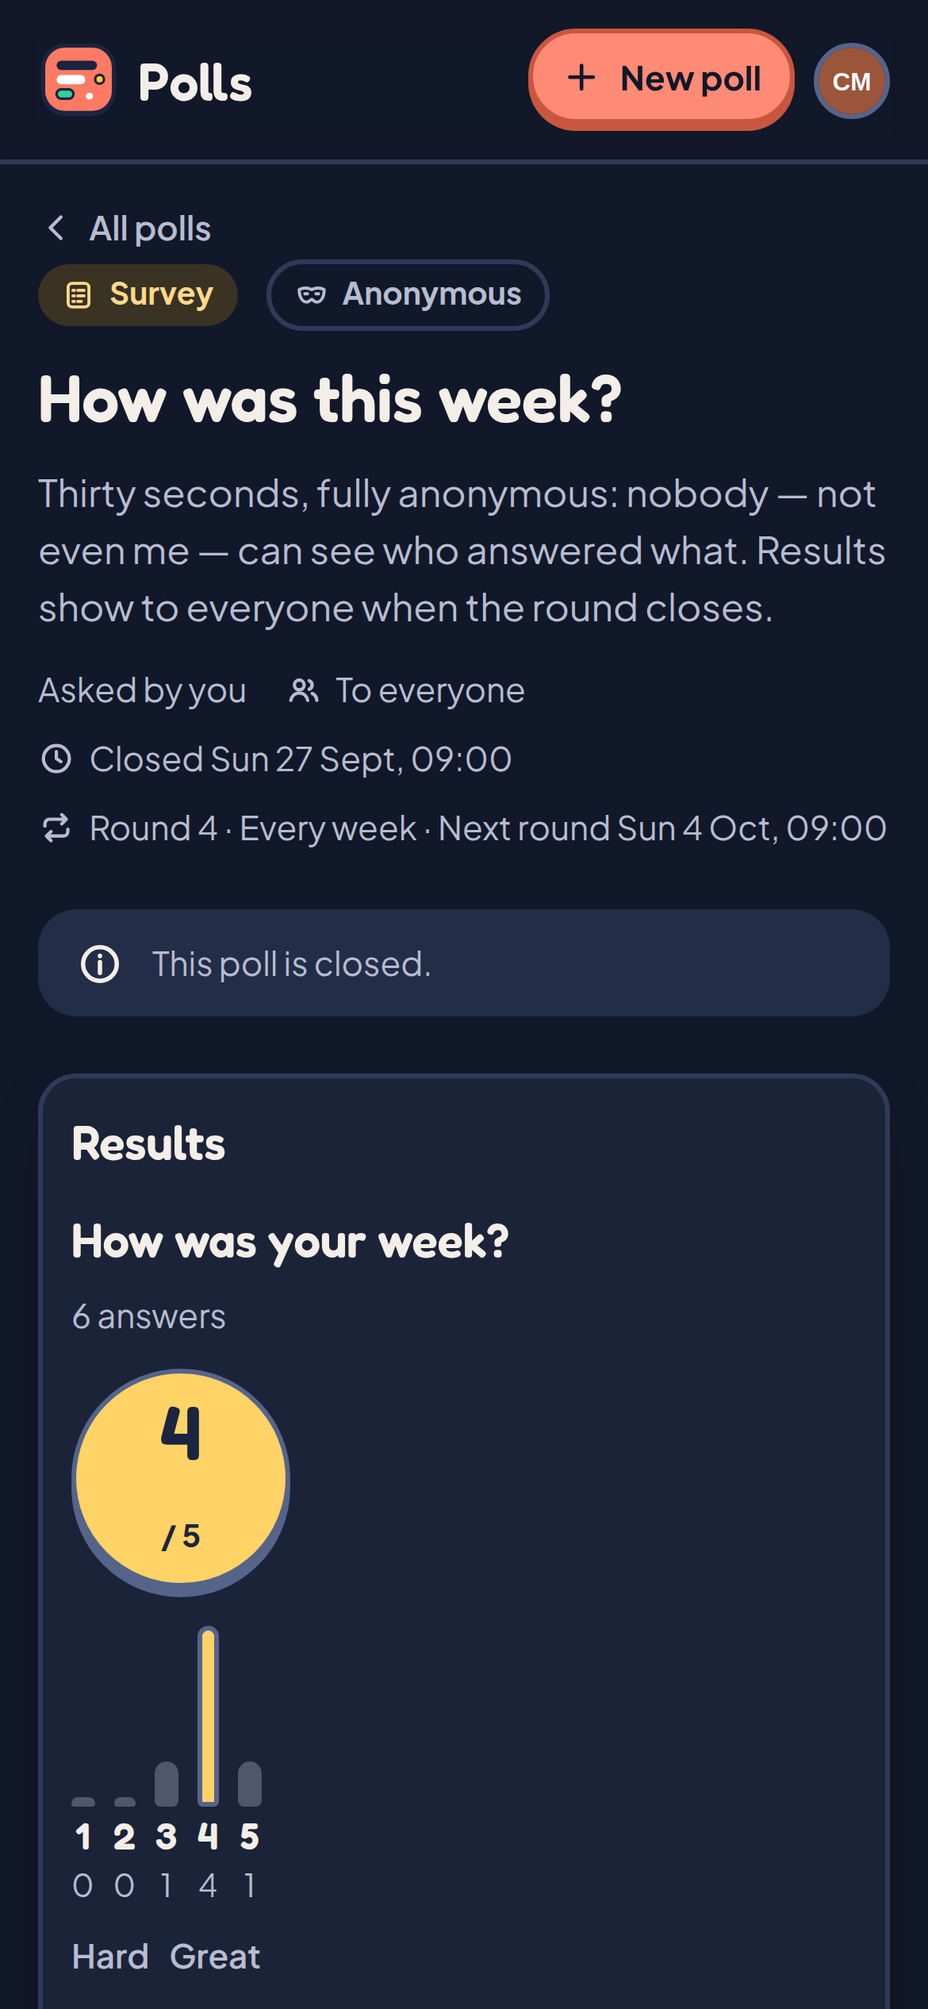
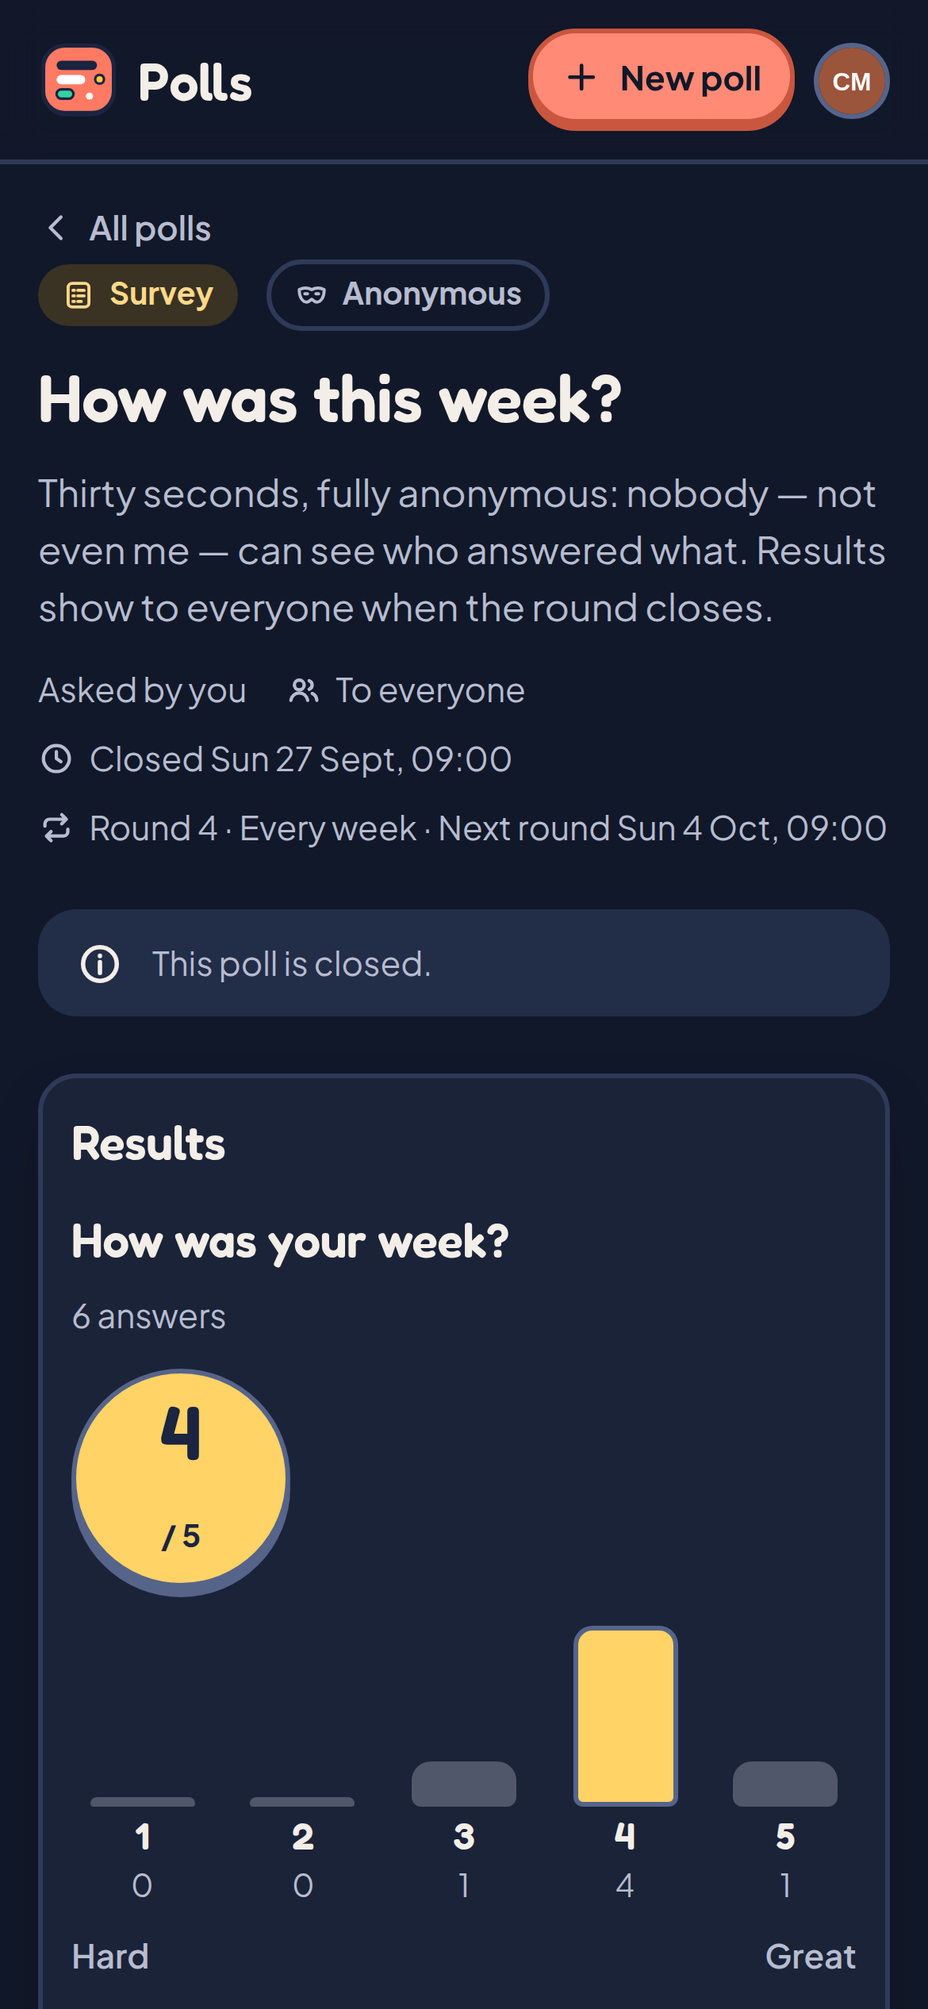
Polls after the critique: anonymous results only once closed, for everyone, never live (database constraint; a closed anonymous poll cannot reopen); members can start polls; recurring pulse surveys with eNPS and trends; people picked by name; comments; places per answer; email reminders; phone grid 
Claude-Session: https://claude.ai/code/session_01JLMdsrCCxLjBpzyUbVXNzX

diff --git a/tools/private/polls/app/globals.css b/tools/private/polls/app/globals.css
@@ -552,3 +552,4 @@ select.field { appearance: none; padding-right: var(--space-6); background-image
   .trend-chart .dot { stroke-width: 3; r: 8px; }
   .trend-chart .dot.current { r: 10px; }
 }
+@media (max-width: 560px) { .scale-result > div:not(.average) { justify-self: stretch; width: 100%; } }

diff --git a/tools/private/polls/README.md b/tools/private/polls/README.md
@@ -61,8 +61,8 @@ them to everyone, organiser included, only once it closes.
   language, sees it on the poll, and can **add it to their calendar** (.ics,
   RFC 5545; all-day or timed, on the Chest's clock).
 - **Reminder**: the day before a poll closes, those who have not answered
-  get one bell item ("Closes tomorrow: …") — only for polls sent more than a
-  day before their close. The organiser is told when their poll closed by
+  get one bell item ("Closes tomorrow: …"), and an email where the Chest
+  sends them — only for polls sent more than a day before their close. The organiser is told when their poll closed by
   its date (for a date poll: "Pick the date and tell everyone").
 - **Drafts**: save a poll as a draft and send it later; a new poll's words
   are also kept in the browser until saved, so a closed tab loses nothing.
@@ -87,19 +87,32 @@ The organiser ticks *Anonymous* when writing the poll. Then:
   carries the same transaction id (`xmin`) and a new place on disk; neither
   row order, ids nor PostgreSQL's own stamps say which answer came last
   (tested in `test/answers.test.ts`).
-- **Results are hidden while fewer than 5 people have answered** — from
-  everyone, including the organiser and the Chest's admins — and free texts
-  are shown in a random order. The organiser never sees *who* has answered
-  an anonymous poll, only how many. The CSV holds counts and texts only.
+- **Results show only once the poll is closed — to everyone at once, the
+  organiser and the Chest's admins included — and only from 5 answers.**
+  While it is open nobody sees a number move: watching the results after
+  each answer ("6 of 7", then "7 of 7" right after a colleague says "done")
+  would tell what that colleague answered. *Live results* cannot be chosen
+  with *Anonymous* (the composer does not offer it; the server and the
+  database refuse it). The CSV is refused while it is open.
+- **A closed anonymous poll is never reopened** — not by its organiser, not
+  by an admin: reopening and closing again would let anyone compare the two
+  results and read the answers given in between. *Close now* asks a second
+  tap ("Close for good") instead of offering *Undo*.
+- Free texts are shown in a random order. The organiser never sees *who*
+  has answered an anonymous poll, only how many; *Remind those who haven't
+  answered* reaches them without naming them. The CSV holds counts and
+  texts only. An anonymous poll takes no comments and no place limits (both
+  name people).
+- **A repeating pulse** compares rounds, never answers: each round is its
+  own anonymous poll, shown once closed and from 5 answers.
 - **An anonymous answer cannot be changed**: nothing says which one is yours.
   The form says so before you send it.
 
 What anonymity here does **not** protect against, honestly:
 
-- **Watching live.** With *Show them as answers come in*, someone who sees
-  the count go from 7 to 8 right after a colleague says "done" can guess
-  that colleague's answer. When anonymity matters, choose *Show them when the
-  poll closes* (the composer switches to it when *Anonymous* is ticked).
+- **Who has answered.** The participation count ("6 of 7 answered") moves
+  as people answer: it says *that* someone answered, never what. Results
+  never move while the poll is open.
 - **Small groups and free text.** Five answers is a floor, not a guarantee:
   a free text can give its author away by what it says; in a team of six,
   a unanimous result says what everyone answered.
@@ -116,8 +129,8 @@ What anonymity here does **not** protect against, honestly:
 
 | Role | Can |
 |---|---|
-| `organiser` | Everything a member can; create polls; see the results of their polls at any time; edit their words and closing time; close, reopen, delete, restore them; pick a date poll's final date; download the answers |
-| `member` | Answer the polls put to them; see results when the organiser allows it |
+| `organiser` | Everything a member can, and always create polls — even when an admin keeps that to organisers |
+| `member` | Answer the polls put to them; see results when the organiser allows it; comment on named polls; **create polls** (unless an admin turned *Everyone can start a poll* off), and for their own polls: see the results at any time (an anonymous poll's only once closed), edit the words and closing time, remind, close, reopen, delete, restore, pick a date poll's final date, stop a pulse's rounds, download the answers |
 
 Admins of the Chest (who arrive as organisers) also manage every poll that is
 not a draft: see its results (an anonymous poll's only once closed, like
@@ -130,17 +143,21 @@ closed poll is seen by those asked, its organiser and admins.
 ## First minute
 
 - **What a new person sees first**: the home page. *To answer* comes first,
-  with each poll's closing time and a big *Answer* button; an organiser then
-  sees *Ask the team* with the three kinds, each one line. With nothing to
+  with each poll's closing time and a big *Answer* button; then *Ask the
+  team* with four tiles — a question, find a date, a short survey, a team
+  pulse — each one line (for everyone, unless an admin keeps it to
+  organisers). With nothing to
   answer: "Nothing to answer. You're all caught up!"
 - **The first thing they do**: tap the bell item or the card, tap an answer,
   *Send my answer*. **Two taps** for a question, one tap per date plus
   *Send* for a date poll. Confetti, then "Thanks! Your answer is in."
 - **An organiser's main job**: *A question* → type the question and two
   answers → *Send to the team*: **three fields and one button**. Everyone is
-  told in their bell.
+  told in their bell. *A team pulse* → *Send to the team*: **one button**,
+  and it comes back every week.
 - **A mistake**: a wrong answer → *Change my answer* (named polls, until the
-  close); closed too early → *Undo* in the toast, or *Reopen*; deleted →
+  close); closed too early → *Undo* in the toast, or *Reopen* (not an
+  anonymous poll: its close is confirmed instead); deleted →
   *Undo*; a date chosen by mistake → *Change the date* (everyone is told
   again, the calendar event replaced). An anonymous answer cannot be changed —
   the form says so before sending.
@@ -150,8 +167,8 @@ closed poll is seen by those asked, its organiser and admins.
 | Route | What |
 |---|---|
 | `/` | Public host: "Polls lives in your Chest", with a language switch |
-| `/chest` | Home: to answer, ask the team (organisers), your polls, answered and still open, closed recently |
-| `/chest/new?kind=choice\|date\|survey` | Composer (organisers) |
+| `/chest` | Home: to answer, ask the team, your polls, answered and still open, closed recently (a pulse once: its latest round); for admins, *Settings* |
+| `/chest/new?kind=choice\|date\|survey` | Composer (whoever may start a poll); `&preset=pulse`: the team pulse |
 | `/chest/polls/[id]` | A poll: answer, results, participation, organise |
 | `/chest/polls/[id]/edit` | A draft to finish, or an open poll's words and closing time |
 | `/chest/polls/[id]/export` | CSV of the answers (those who manage the poll) |
@@ -162,8 +179,11 @@ closed poll is seen by those asked, its organiser and admins.
 ## On a Chest
 
 - `capabilities`: `database`; `members` (names, photos, groups, who is
-  asked); `notifications` (the bell, the tile's number);
-  `receives: ["member.*"]`.
+  asked, people found by name); `notifications` (the bell, the tile's
+  number); `receives: ["member.*"]`. Proposal (studio), in
+  `chest.proposals.json`: `mail: {send: true}` — reminders by email, one
+  per person, sent to `{member}` (Polls never sees an address); without it,
+  reminders are bell items only.
 - **Telling those asked** uses one `notifications.broadcast` per poll
   (Proposal (studio): each member's item in their language, 30 an hour,
   outside the recipients quota). Where the Chest has no broadcast, and for
@@ -173,18 +193,21 @@ closed poll is seen by those asked, its organiser and admins.
   the next pass.
 - **Without schedules**: polls close by their date on the next page view
   (closing is evaluated on every read), and the same pass (closing
-  follow-ups, reminders, tellings, purge) runs at most once a minute when
-  someone opens a page. With the `pass` schedule (every 15 minutes) it runs
-  on time.
+  follow-ups, the next rounds of repeating surveys, reminders, tellings,
+  purge) runs at most once a minute when someone opens a page. With the
+  `pass` schedule (every 15 minutes) it runs on time. A round missed while
+  nobody came is skipped, never opened in a burst.
 - **Groups**: the Chest shows a tool only the groups that *give* it access.
-  If Polls is open to everyone through no group, the composer says "No group
-  gives Polls here, so everyone is asked."
+  If Polls is open to everyone through no group, the composer offers people
+  by name ("No group gives Polls here: add people by name").
 - **Someone loses access**: nothing changes; they are no longer asked or
   counted. **Someone leaves**: their open polls stay open (organiser shown
-  "(former member)"; an admin can close them), their answers stay, their
-  drafts are deleted. **An erasure**: their named answers stay counted but
-  read "Former member"; polls they organised are authored `erased`; their
-  drafts are deleted; the erasure is acknowledged.
+  "(former member)"; an admin can close them), their answers and comments
+  stay, their drafts are deleted, their repeating surveys stop. **An
+  erasure**: their named answers stay counted but read "Former member", so
+  do their comments; polls they organised are authored `erased`; their
+  repeating surveys stop; their id leaves the lists of people picked by
+  name; their drafts are deleted; the erasure is acknowledged.
 - No WebSocket: an open poll re-reads itself every 20 s, the home page every
   30 s, while visible.
 
@@ -198,12 +221,25 @@ closed poll is seen by those asked, its organiser and admins.
   every 15 minutes. Without it, Polls still works (see above).
 - `chest.timeZone()` / `today()` — **Proposal (studio)**: dates and closing
   times on the Chest's clock.
-- Wanted, not built: **`members.groups.list({ all: true })`** — all of the
-  Chest's groups (not only those that give the tool) so a tool open to
-  everyone can still ask "Sales only"; a **broadcast that excludes members**
-  (`except: [ids]`) so a reminder or a poll's first telling need not page
-  through members; **email** for reminders, since the bell reaches only
-  those who open their Chest.
+- `mail` — **Proposal (studio)**: reminders by email (`send` to `{member}`).
+- Wanted, not built:
+  - **A public part for guests without a Chest account** — Doodle's main
+    outside use (a client meeting, a candidate's interview slot). Polls is
+    a private-only tool; it would need `public: true` and a way for a
+    visitor to answer one date poll through an unguessable link, with a
+    name field and no account, rate-limited per link and per address. The
+    public-part and `visitors` proposals give the pieces; turning a private
+    tool into a public-and-private one (a second host, its own CSP, a
+    public page per poll) is a structure change for the studio to decide.
+  - **`members.groups.list({ all: true })`** — all of the Chest's groups
+    (not only those that give the tool) so a tool open to everyone can
+    still ask "Sales only"; until then, people picked by name.
+  - A **broadcast to members by id** (`to: { members: [ids] }`) and one
+    that **excludes members** (`except: [ids]`), so a poll put to people by
+    name, a reminder or a poll's first telling need not page through
+    members.
+  - **Push to a phone**: the bell reaches only those who open their Chest;
+    email helps; a push would be Officevibe's Slack nudge.
 
 ## Develop
 
@@ -221,10 +257,17 @@ In the studio: `node lab/chest-dev/dev.mjs tools/private/polls --prod --reset
 
 ## What it does not do (yet)
 
-Comments on a poll; participants adding options; limits per option (a
-sign-up sheet); recurring pulse surveys with a trend chart (needs
-schedules per poll); ranking questions; guests outside the Chest (no public
-voting link); email or push reminders; import from Doodle (Doodle exports
-only an Excel file, on paid plans — nothing worth importing for short-lived
-polls); calendar conflict hints on dates; time zones other than the Chest's
-for date options.
+- **Guests outside the Chest**: no public answering link (see *Needs from
+  the SDK*). A meeting with a client or a candidate still needs Doodle or an
+  email thread.
+- **Pulse breakdowns per team or manager** (Officevibe's heat map): only the
+  whole audience's results. A per-group breakdown with its own five-answer
+  floor is possible, not built.
+- **Importing past Officevibe or Doodle data**: none. A pulse's history
+  starts with its first round in Polls; the old one stays in Officevibe's
+  export. (Doodle exports only an Excel file, on paid plans — nothing worth
+  importing for short-lived polls.)
+- **An export of every poll at once** for an admin: one CSV per poll.
+- Participants adding options; ranking questions; a date picker showing
+  more than one month; calendar conflict hints on dates; time zones other
+  than the Chest's for date options; push reminders.

diff --git a/tools/private/polls/AGENTS.md b/tools/private/polls/AGENTS.md
@@ -8,26 +8,29 @@ must not break.
 | Path | What it is |
 |---|---|
 | `chest.json` | Manifest: roles `organiser`, `member`; `database`, `members`, `notifications`; `receives` |
-| `chest.proposals.json` | The `pass` schedule (every 15 minutes) — a Proposal of the studio's SDK |
-| `migrations/0001_polls.sql` | Schema: polls, questions, options, participants, answers (named), tallies and texts (anonymous), tellings, chest_events. Never edit a shipped file; add `0002_…` |
-| `lib/access.ts` | **Who may do what**: roles, `asked`, `sees`, `manages`, `edits`, `resultsState` (live / after close / the five-answer threshold) |
+| `chest.proposals.json` | The `pass` schedule (every 15 minutes) and `mail: {send}` (email reminders) — Proposals of the studio's SDK |
+| `migrations/0001_polls.sql` | Schema: polls, questions, options, participants, answers (named), tallies and texts (anonymous), tellings, chest_events |
+| `migrations/0002_team_polls.sql` | Settings (who starts polls), people picked by name, sign-up places, edits after answers, reminders on demand, series (repeating pulses), eNPS, comments; anonymous ⇒ results after the close (a constraint). Never edit a shipped file; add `0003_…` |
+| `lib/access.ts` | **Who may do what**: roles and the admin's policy (`can`, `settles`), `asked` (everyone, groups, people), `sees`, `manages`, `edits`, `resultsState` (live / after close; anonymous: closed and five answers, for everyone) |
 | `lib/model.ts` | Bounds, reading a poll (`readPoll`) and an answer (`readAnswer`), `checkOpening` — pure |
 | `lib/polls.ts` | Services: create, drafts, edit, send, close, reopen, delete, restore, purge, final date, home, view, export, tile counts |
 | `lib/answers.ts` | Answering; the anonymous rewrite (see README, "Anonymous polls") |
-| `lib/results.ts` | Counts → results (bars, grid, best date, averages) — pure |
-| `lib/tell.ts` | The bell and the tile: ask, remind, final date (broadcast, or pages resumable past the quota), settle after closing, `pass`/`catchUp` |
-| `lib/audience.ts` | Who a poll asks (`members.list`, groups) |
+| `lib/results.ts` | Counts → results (bars, grid, best date, averages, eNPS) — pure |
+| `lib/series.ts` | Repeating pulses: `startSeries`, `openRounds` (on the pass), `repeatSeries` (stop / again), `trend` (a number per round) |
+| `lib/comments.ts` | Comments on named polls: list, add, remove, restore |
+| `lib/tell.ts` | The bell, the tile and email reminders: ask, remind (day before), nudge (the organiser's reminder), final date (broadcast, or pages resumable past the quota), comments, settle after closing, `pass`/`catchUp` |
+| `lib/audience.ts` | Who a poll asks (`members.list`, groups, people by name), finding people by name |
 | `lib/ics.ts`, `lib/csv.ts` | .ics (RFC 5545) and CSV writers — pure, tested |
 | `lib/time.ts`, `lib/zone.ts`, `lib/dates.ts` | Days and times on the Chest's clock, in the reader's words |
 | `lib/composer-value.ts` | The composer's data shape (browser-safe) |
 | `lib/lifecycle.ts` | Leaving and erasure |
 | `lib/i18n/` | Every word: `en.ts` (source), `fr.ts`; `format.ts` for the browser |
 | `app/chest/actions.ts` | Server actions: thin; each re-reads the member; answer `Result` codes |
-| `app/chest/page.tsx` | Home (server) |
+| `app/chest/page.tsx` | Home (server); `policy-switch.tsx` the admin's setting |
 | `app/chest/composer.tsx` | The composer (client): kinds, answers, calendar, survey questions, settings |
-| `app/chest/polls/[id]/` | The poll page (server), `answer-area.tsx` and `manage.tsx` (client), `results.tsx` (server), `export/`, `calendar/` routes |
+| `app/chest/polls/[id]/` | The poll page (server), `answer-area.tsx`, `manage.tsx`, `comments.tsx` (client), `results.tsx`, `trend.tsx` (server), `export/`, `calendar/` routes |
 | `app/chest-events/route.ts`, `app/chest-jobs/[name]/route.ts` | The Chest's signed calls |
-| `seed/sample.sql` | Five sample polls for local runs |
+| `seed/sample.sql` | Sample polls for local runs: a question, a date poll, a weekly pulse (5 rounds), a sign-up sheet, a draft, comments |
 | `test/` | `node:test` with `fakeChest` and PostgreSQL (PGlite or `TEST_DATABASE_URL`) |
 
 ## Commands
@@ -43,9 +46,10 @@ npm ci && npm test && npm run build   # all three must pass
 - **A poll someone may not see is `not_found`**, never `forbidden`.
 - **Anonymous means no link.** Never add a member id, a time, a sequence or
   anything orderable to `tallies` or `texts`; never join `participants` to
-  them; keep the whole-poll rewrite in one transaction; keep the five-answer
-  threshold for everyone (organiser and admins included); never list
-  participants of an anonymous poll. `test/answers.test.ts` checks the
+  them; keep the whole-poll rewrite in one transaction; show results only
+  once closed and from five answers, to everyone (organiser and admins
+  included); never reopen a closed anonymous poll; never list participants
+  of an anonymous poll; no comments, no place limits on it. `test/answers.test.ts` checks the
   row stamps.
 - **Telling many people** goes through `lib/tell.ts`: one key per poll and
   kind (`poll:<id>:ask`, `poll:<id>:final`), so telling again replaces; a

diff --git a/tools/private/polls/THIRD_PARTY.md b/tools/private/polls/THIRD_PARTY.md
@@ -6,6 +6,8 @@
 | Plus Jakarta Sans (font) | [tokotype/PlusJakartaSans](https://github.com/tokotype/PlusJakartaSans), via `@fontsource-variable/plus-jakarta-sans` 5.3.0 | OFL-1.1 | `public/fonts/`, licence in `public/fonts/LICENSE-plus-jakarta-sans.txt` |
 | iCalendar writer | The studio's Booking tool (`lib/ics.ts`, MIT, © 2026 Argentic), adapted: whole days added, the `;` escape fixed | MIT | `lib/ics.ts` |
 | Ideas only | Rallly (AGPL-3.0), Framadate (CeCILL-B) / Pollaris (AGPL-3.0), Nextcloud Polls (AGPL-3.0), Formbricks (AGPL-3.0), LimeSurvey (GPL-2.0-or-later) — see `reports/02-open-source/polls.md` in the studio | — | Feature ideas: the yes / if need be / no grid and the final date (Rallly, Framadate), hidden results and strict anonymity (Nextcloud Polls, LimeSurvey), the five-answer threshold (Officevibe). Rallly's vote IDOR advisory is why votes bind to the Chest's member only. **No code copied** |
+| Ideas only: the weekly pulse | Officevibe (Workleap, proprietary) — a recurring anonymous pulse, its trend over time, eNPS | — | The pulse tile, repeating surveys, the trend card. **No code, no wording copied** |
+| eNPS (definition) | The Net Promoter method (F. Reichheld, "The One Number You Need to Grow", *Harvard Business Review*, December 2003), applied to employees: share answering 9–10 minus share answering 0–6 on a 0–10 scale. "Net Promoter" and "NPS" are trademarks of Bain & Company, Satmetrix and Fred Reichheld: the tool says "eNPS" only, as the HR trade does | — | `lib/model.ts` (`enps`) |
 
 Dependencies installed from npm under their own licences: `next`, `react`,
 `react-dom` (MIT), `postgres` (Unlicense), `@argentic/chest-sdk` (MIT, the

diff --git a/tools/private/polls/DESIGN.md b/tools/private/polls/DESIGN.md
@@ -55,9 +55,22 @@ dark ink (`--mint-ink` 5.7:1, `--sun-ink` 6.1:1). The axe audit
   bubbles, the participation meter.
 - **Cards** on the home page: kind chip, title, who, closing time,
   participation, one action. Poll-to-answer cards stand on a navy ledge.
-- **Kind tiles**: three big tiles, an icon on a tint, a name and one line.
+- **Kind tiles**: four big tiles (a question, a date, a survey, the team
+  pulse), an icon on a tint, a name and one line; two by two from 640 px.
+- **Over time** (a repeating pulse): one thin coral line per question on
+  recessive grid lines, the current round a filled dot, the latest number
+  big with its change (▲ mint / ▼ coral, with the sign), the numbers in a
+  table under *See the numbers*. On a phone the chart's words and marks
+  grow so they stay readable.
+- **eNPS**: the score in the yellow disc, then three bars — critics
+  (coral), neutral (sunflower), fans (mint), each labelled in words.
+- **Sign-up places**: a small mint pill "2 places left", grey "Full"; a
+  full answer is dimmed and cannot be ticked.
+- **Comments**: avatar, name, "3 hours ago", the words; a quiet textarea
+  and *Post* below.
 - **Empty states**: "Nothing to answer. You're all caught up!"; the
-  anonymous threshold shows five dots filling up.
+  anonymous threshold (a closed poll under five answers) shows five dots;
+  an open anonymous poll says its results come at the close, in mint.
 - **Toasts**: a navy pill at the bottom, with *Undo*.
 
 ## Icon
